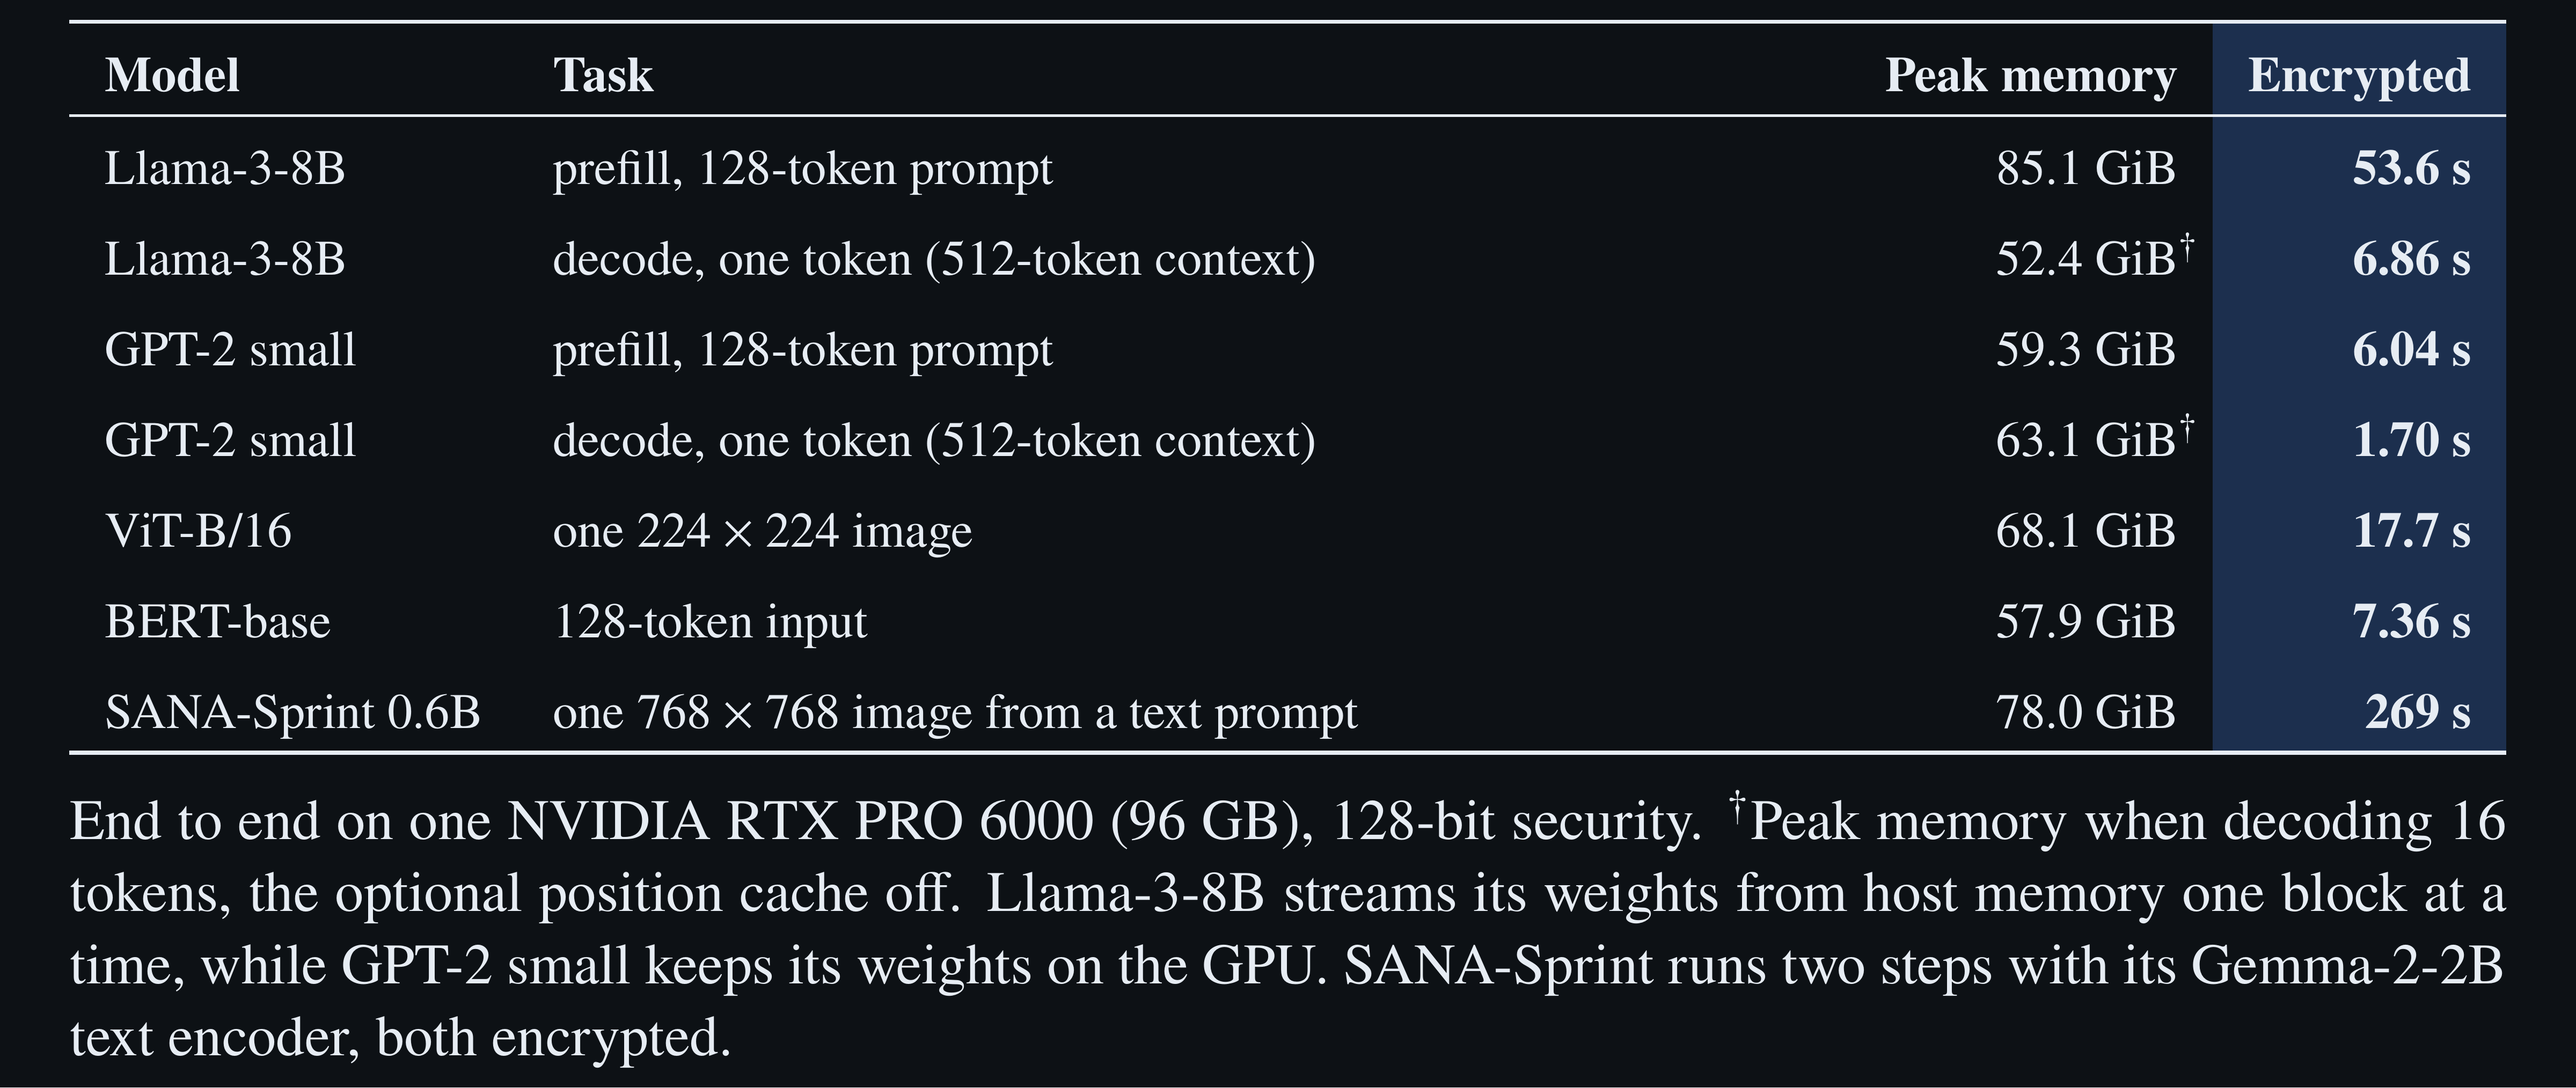
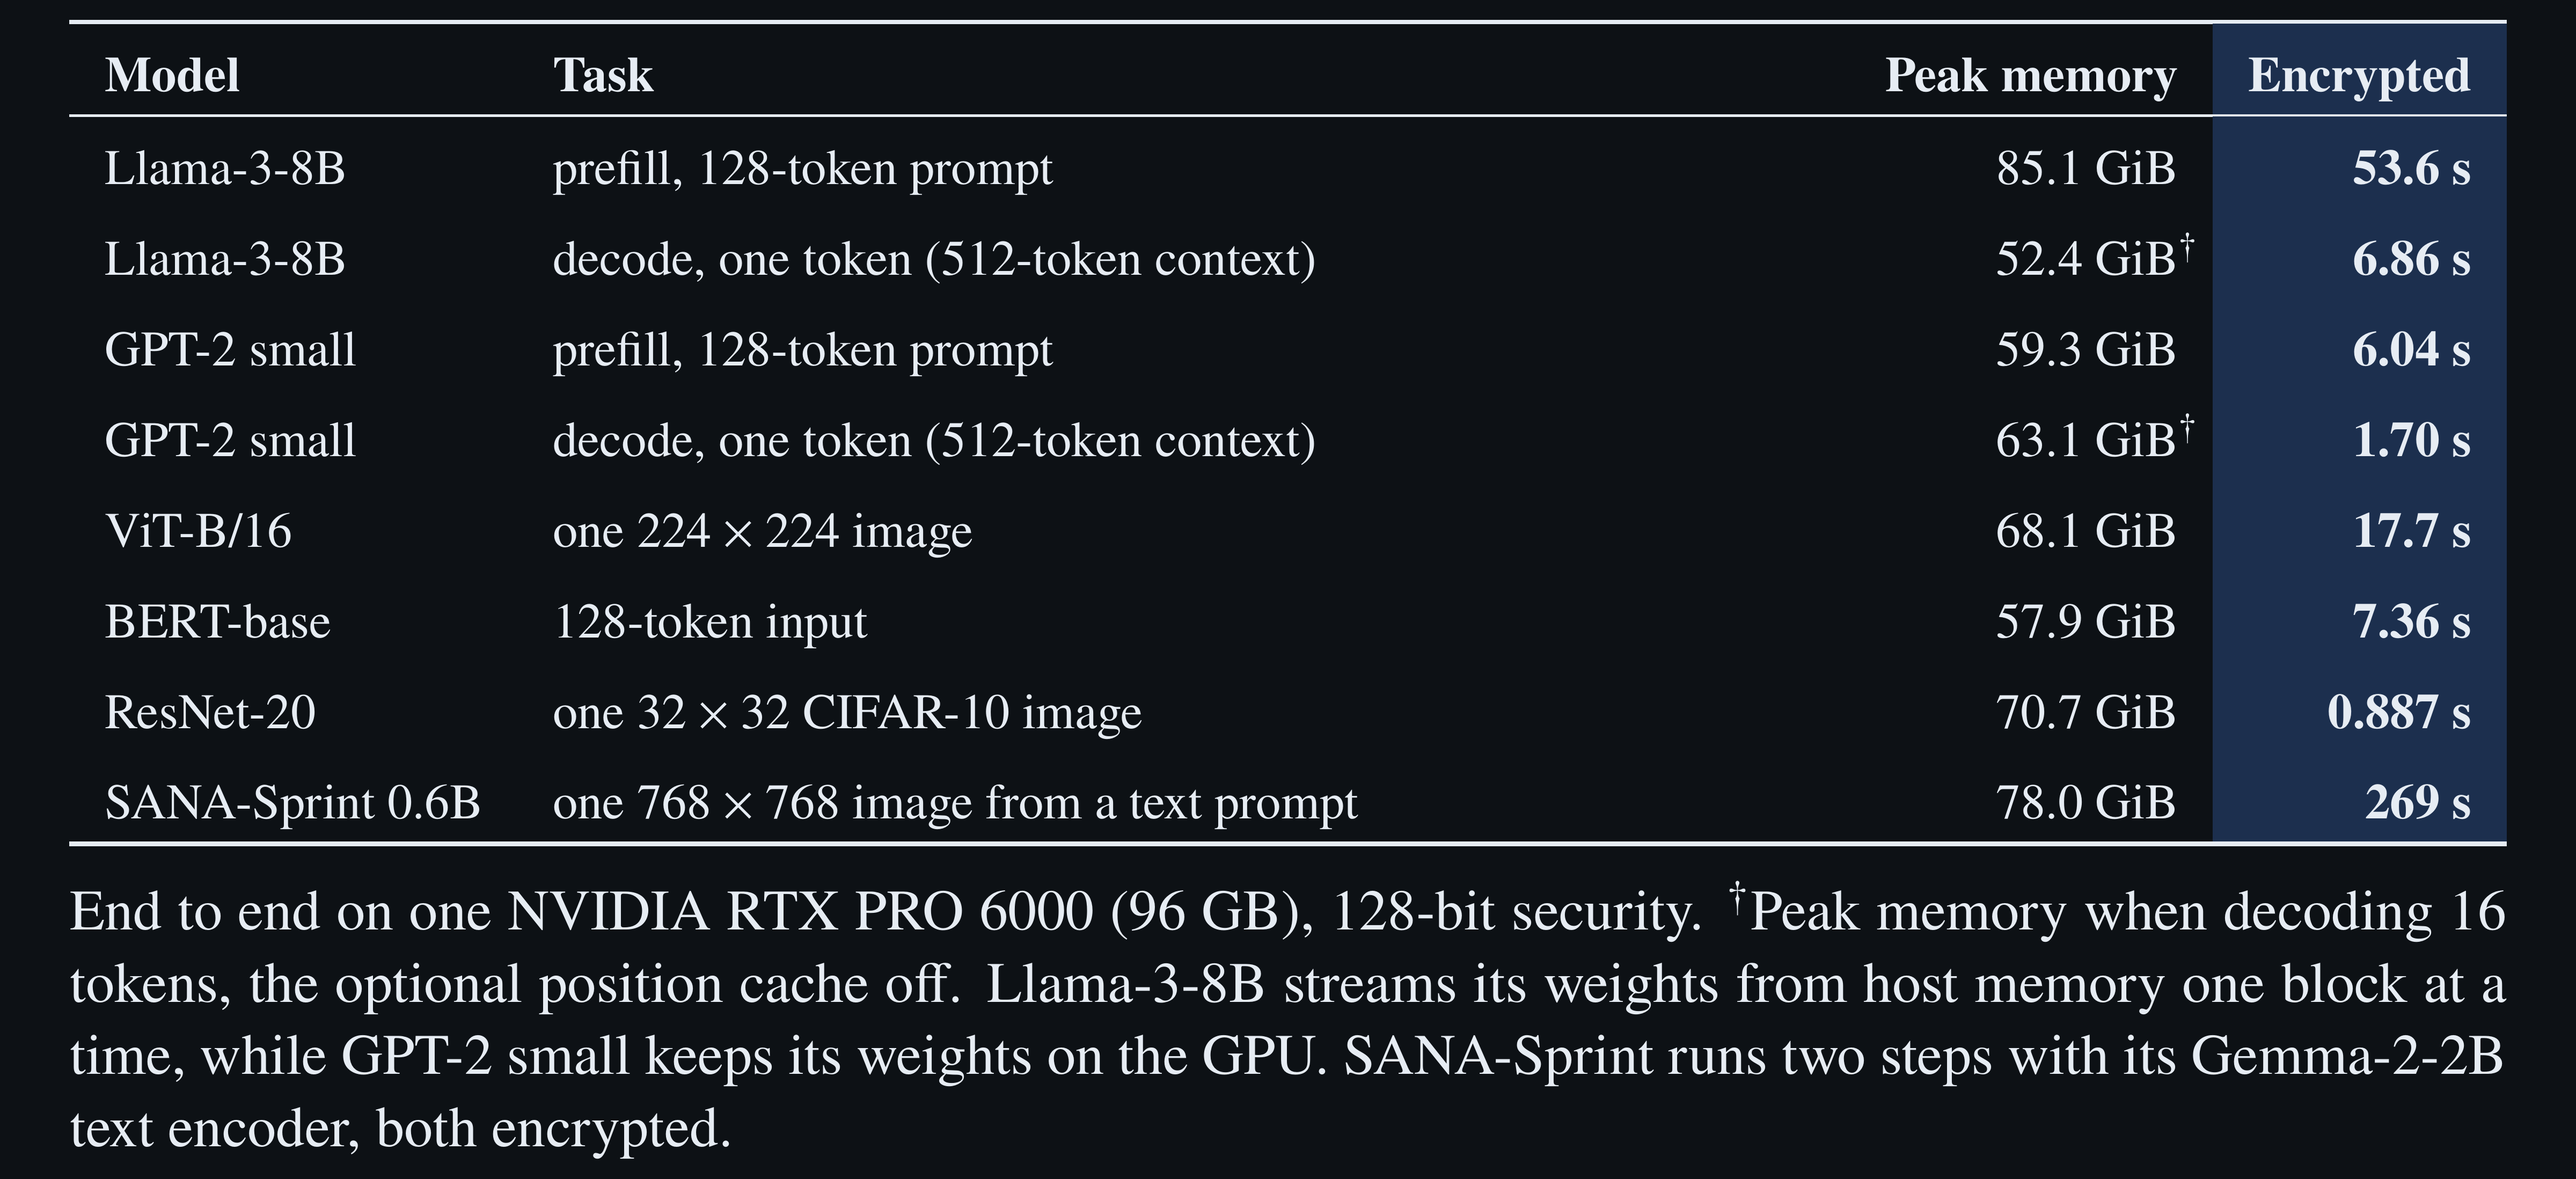
README: ResNet-20 in the overview table

diff --git a/assets/paper-tables.tex b/assets/paper-tables.tex
@@ -23,6 +23,10 @@
 % SANA-Sprint text to image (sana-t2i branch check, 2026-11-13, GPU 4 alone: forwards 2 and 3, 269.06 and 269.13 s, after
 % a 333 s first forward; lowest free 17.01 GiB)
 \newcommand{\sanaimg}{269}\newcommand{\sanamem}{78.0}
+% ResNet-20 on CIFAR-10, the one-stage StC-first plan resnet20_stcf2 (main 69d1262a, 2026-11-18, GPU 3 alone: 2 runs
+% of 64 test images, medians 0.887 and 0.887 s, 64/64 argmax agreement with the float64 model; peak used 70.7 GiB by
+% nvidia-smi, free 24.27 GiB after setup)
+\newcommand{\resnetimg}{0.887}\newcommand{\resnetmem}{70.7}
 % peak GPU memory, GiB: total (94.97) minus the lowest free of the run (the prefills replay CUDA graphs, captured in
 % the first forward after setup); the decode rows at a short context (the repro scripts' 16 tokens), without the
 % optional position cache (PC_PT_CACHE=0), Llama's the GPU's peak used memory over the run (its runner reports no free
@@ -55,6 +59,7 @@ GPT-2 small & prefill, 128-token prompt & \gptpfmem\ GiB & \textbf{\gptpf\ s} \\
 GPT-2 small & decode, one token (512-token context) & \gptdecmem\ GiB\nt{\dagger} & \textbf{\gptdec\ s} \\
 ViT-B/16 & one $224\times224$ image & \vitmem\ GiB & \textbf{\vitimg\ s} \\
 BERT-base & 128-token input & \bertmem\ GiB & \textbf{\bertin\ s} \\
+ResNet-20 & one $32\times32$ CIFAR-10 image & \resnetmem\ GiB & \textbf{\resnetimg\ s} \\
 SANA-Sprint 0.6B & one $768\times768$ image from a text prompt & \sanamem\ GiB & \textbf{\sanaimg\ s} \\
 \bottomrule
 \end{tabularx}

diff --git a/README.md b/README.md
@@ -40,8 +40,8 @@ replays (its kernels descend from [FIDESlib32bits](https://github.com/gladia-res
 our 32-bit GPU port of [FIDESlib](https://github.com/CAPS-UMU/FIDESlib)).
 
 <p align="center">
-  <a href="assets/paper-tables-overview-light.png#gh-light-mode-only"><img src="assets/paper-tables-overview-light.png#gh-light-mode-only" alt="Perseus, encrypted, end to end on one RTX PRO 6000 with 128-bit security, and the peak GPU memory of each run (Llama-3-8B streams its weights from host memory, GPT-2 small keeps its weights on the GPU). Llama-3-8B prefill of a 128-token prompt 53.6 s (85.1 GiB), decode of one token at a 512-token context 6.86 s (52.4 GiB when decoding 16 tokens). GPT-2 small prefill 6.04 s (59.3 GiB), decode 1.70 s per token at a 512-token context (63.1 GiB when decoding 16 tokens). ViT-B/16 17.7 s per image (68.1 GiB). BERT-base 7.36 s for 128 tokens (57.9 GiB). SANA-Sprint 0.6B, with its Gemma-2-2B text encoder, 269 s for one 768 × 768 image from a text prompt (78.0 GiB)." width="707"></a>
-  <a href="assets/paper-tables-overview-dark.png#gh-dark-mode-only"><img src="assets/paper-tables-overview-dark.png#gh-dark-mode-only" alt="Perseus, encrypted, end to end on one RTX PRO 6000 with 128-bit security, and the peak GPU memory of each run (Llama-3-8B streams its weights from host memory, GPT-2 small keeps its weights on the GPU). Llama-3-8B prefill of a 128-token prompt 53.6 s (85.1 GiB), decode of one token at a 512-token context 6.86 s (52.4 GiB when decoding 16 tokens). GPT-2 small prefill 6.04 s (59.3 GiB), decode 1.70 s per token at a 512-token context (63.1 GiB when decoding 16 tokens). ViT-B/16 17.7 s per image (68.1 GiB). BERT-base 7.36 s for 128 tokens (57.9 GiB). SANA-Sprint 0.6B, with its Gemma-2-2B text encoder, 269 s for one 768 × 768 image from a text prompt (78.0 GiB)." width="707"></a>
+  <a href="assets/paper-tables-overview-light.png#gh-light-mode-only"><img src="assets/paper-tables-overview-light.png#gh-light-mode-only" alt="Perseus, encrypted, end to end on one RTX PRO 6000 with 128-bit security, and the peak GPU memory of each run (Llama-3-8B streams its weights from host memory, GPT-2 small keeps its weights on the GPU). Llama-3-8B prefill of a 128-token prompt 53.6 s (85.1 GiB), decode of one token at a 512-token context 6.86 s (52.4 GiB when decoding 16 tokens). GPT-2 small prefill 6.04 s (59.3 GiB), decode 1.70 s per token at a 512-token context (63.1 GiB when decoding 16 tokens). ViT-B/16 17.7 s per image (68.1 GiB). BERT-base 7.36 s for 128 tokens (57.9 GiB). ResNet-20 0.887 s per CIFAR-10 image (70.7 GiB). SANA-Sprint 0.6B, with its Gemma-2-2B text encoder, 269 s for one 768 × 768 image from a text prompt (78.0 GiB)." width="707"></a>
+  <a href="assets/paper-tables-overview-dark.png#gh-dark-mode-only"><img src="assets/paper-tables-overview-dark.png#gh-dark-mode-only" alt="Perseus, encrypted, end to end on one RTX PRO 6000 with 128-bit security, and the peak GPU memory of each run (Llama-3-8B streams its weights from host memory, GPT-2 small keeps its weights on the GPU). Llama-3-8B prefill of a 128-token prompt 53.6 s (85.1 GiB), decode of one token at a 512-token context 6.86 s (52.4 GiB when decoding 16 tokens). GPT-2 small prefill 6.04 s (59.3 GiB), decode 1.70 s per token at a 512-token context (63.1 GiB when decoding 16 tokens). ViT-B/16 17.7 s per image (68.1 GiB). BERT-base 7.36 s for 128 tokens (57.9 GiB). ResNet-20 0.887 s per CIFAR-10 image (70.7 GiB). SANA-Sprint 0.6B, with its Gemma-2-2B text encoder, 269 s for one 768 × 768 image from a text prompt (78.0 GiB)." width="707"></a>
 </p>
 
 ## What's inside
